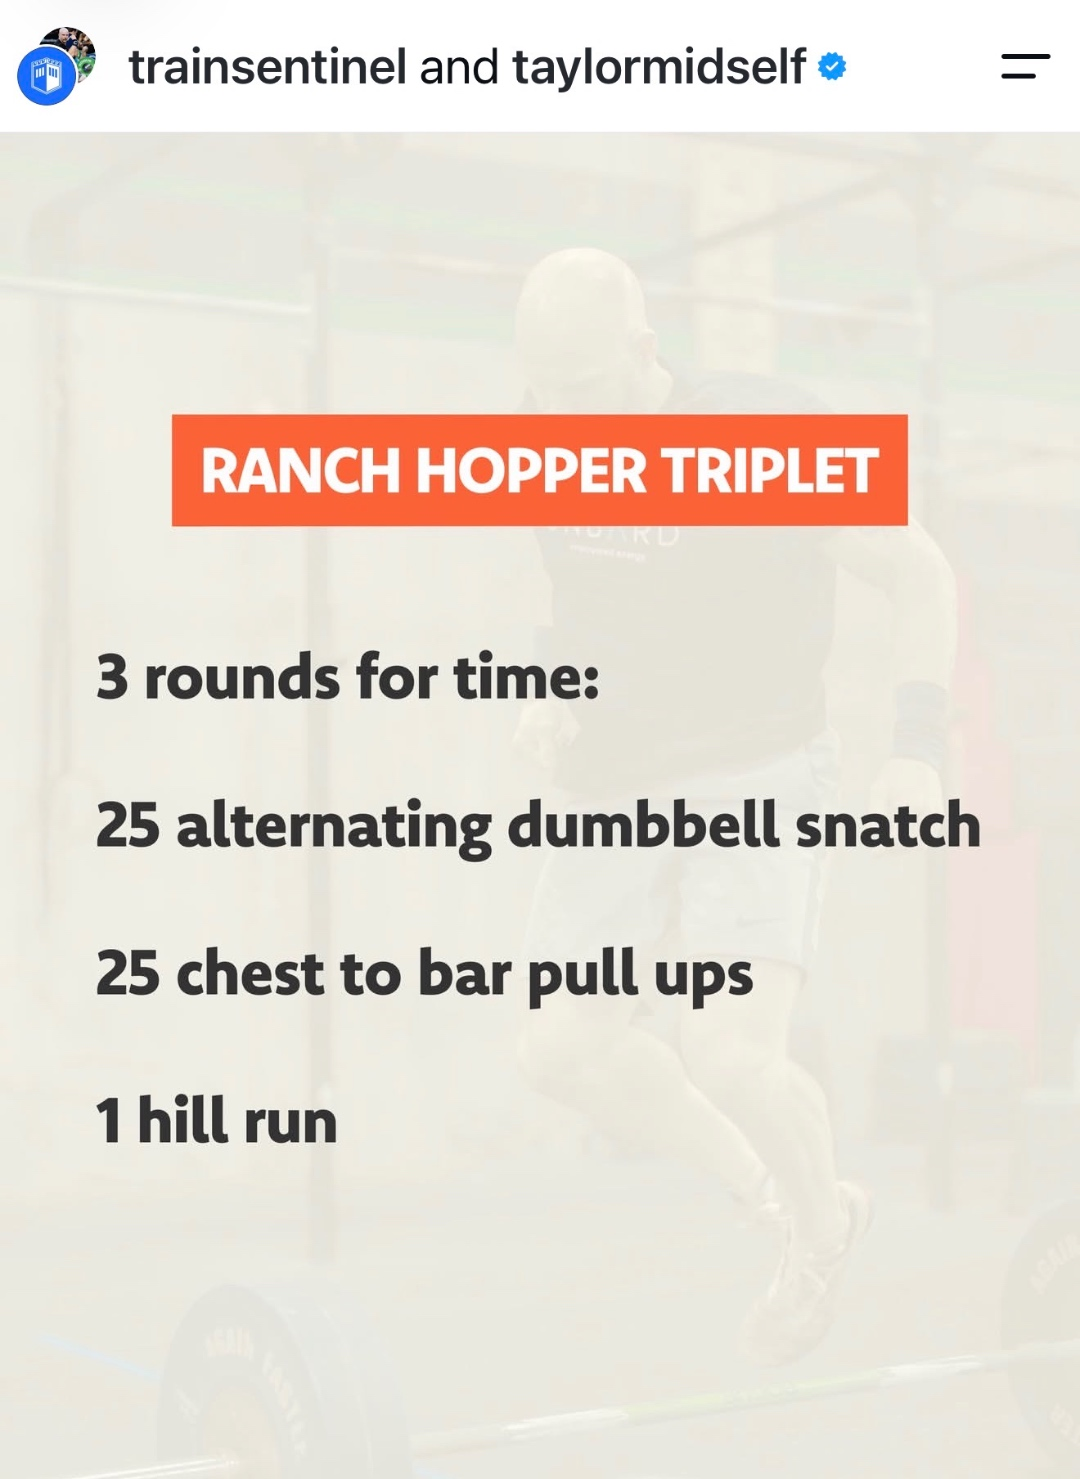
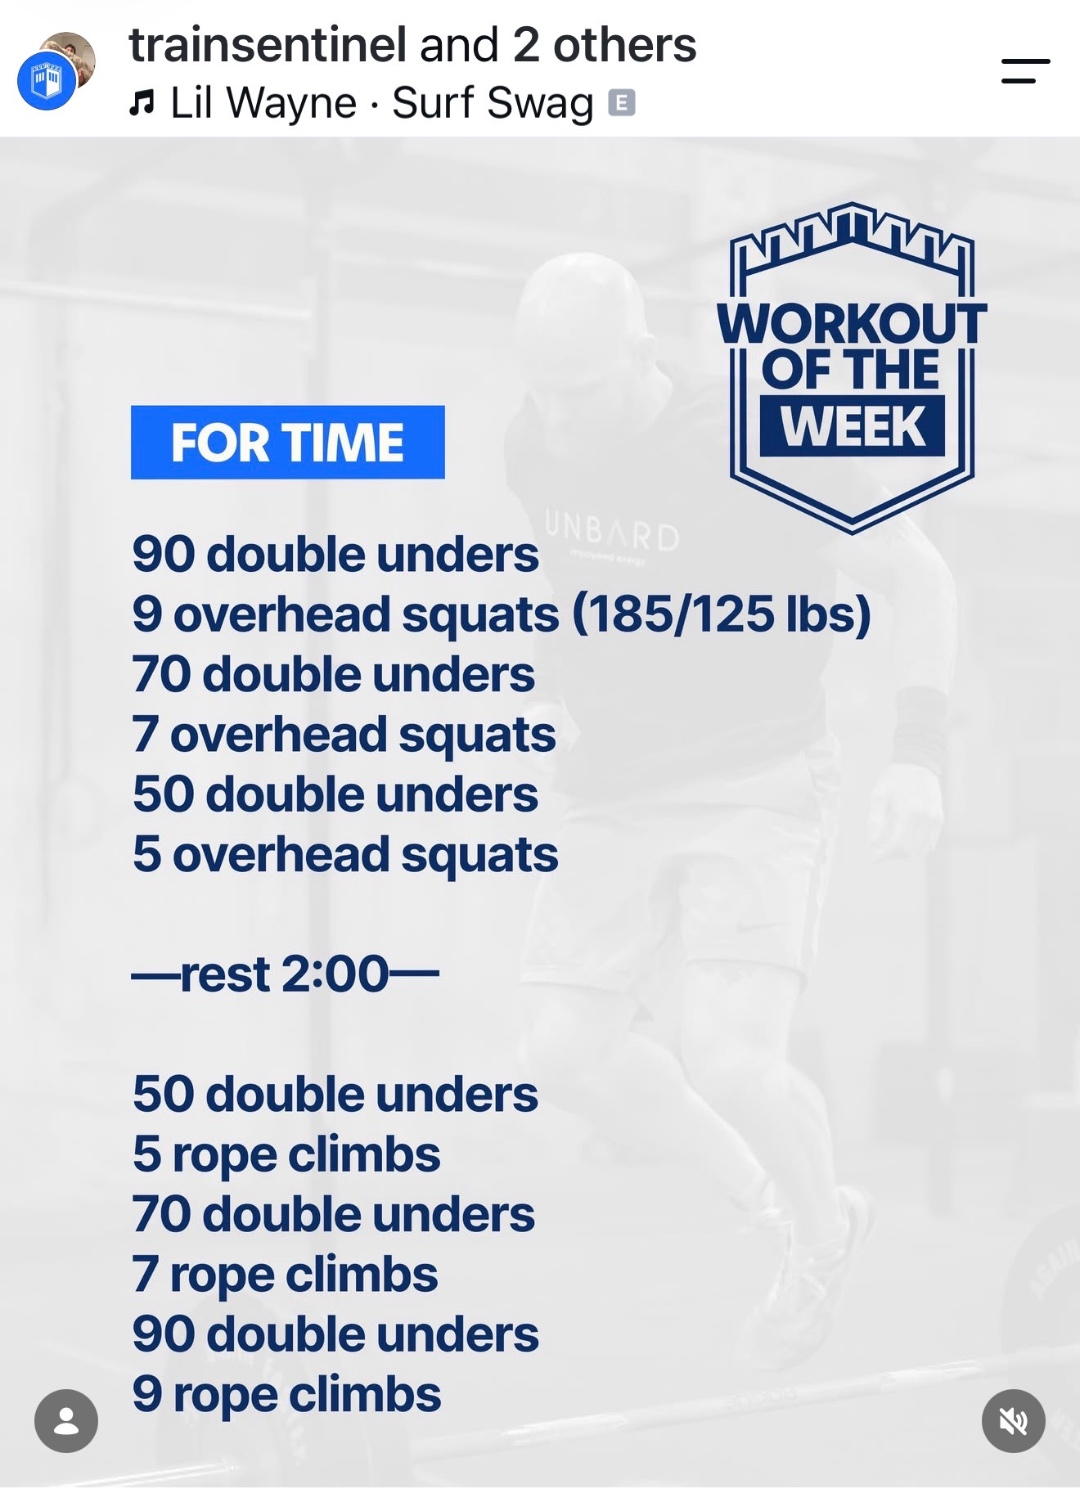
Update WOTW to Sentinel Classic Track (July 27): DU/OHS + DU/rope climbs couplets, full warm-up, cool-down, stimulus, scaling, masters

diff --git a/wotw.html b/wotw.html
@@ -73,8 +73,8 @@
       </div>
       <!-- Date label + source (admin-editable; fall back to these defaults) -->
       <div class="wotw-dateblock">
-        <span class="wotw-date" id="wotwDate">Week of July 20, 2026</span>
-        <span class="wotw-source" id="wotwSource">Sentinel Training · Ranch Hopper Triplet</span>
+        <span class="wotw-date" id="wotwDate">Week of July 27, 2026</span>
+        <span class="wotw-source" id="wotwSource">Sentinel Training Classic Track</span>
       </div>
     </div>
 
@@ -103,24 +103,23 @@
             <svg width="16" height="16" viewBox="0 0 24 24" fill="none" stroke="currentColor" stroke-width="2"><circle cx="12" cy="12" r="10"/><path d="M12 6v6l4 2"/></svg>
             Warm-up
           </h4>
-          <p class="wotw-block__text" id="wotwWarmup">General warm-up &mdash; 2 rounds at an easy pace:
-200 m jog
-10 shoulder pass-throughs with a PVC
-10 band pull-aparts
-10 scap pull-ups
-10 air squats
-5 inchworms with a push-up
+          <p class="wotw-block__text" id="wotwWarmup">2 rounds:
+1 minute of single unders
+1 minute of alternating groiners
 Then&hellip;
-Shoulder and pulling prep &mdash; 2 sets:
-5 kip swings
-5 kipping pull-ups
-3 chest-to-bar pull-ups
-10 single-arm DB deadlifts, each side (light)
-5 single-arm DB hang power snatch, each side (light)
-5 single-arm DB power snatch, each side (moderate)
+1 round of Crossover Symmetry OR 10 I-Y-T with change plates
+1 minute of kneeling hip to hamstring stretch, each side
+10 bottom squat PVC pass-throughs
 Then&hellip;
-Build to your workout weight over 2&ndash;3 sets of 3 alternating DB snatches.
-Finish with a short hill run at moderate pace to prime the legs.</p>
+2 rounds:
+5 kettlebell windmills + 5 single-arm kettlebell overhead squats, each side
+10 hanging knee raises
+Then&hellip;
+20 band RNT overhead squats
+5 strict pull-ups
+10 empty barbell overhead squats
+Then&hellip;
+Build to overhead squat weight in 5&ndash;7 minutes.</p>
         </div>
 
         <!-- ===== COOL-DOWN =====
@@ -130,14 +129,9 @@ Finish with a short hill run at moderate pace to prime the legs.</p>
             <svg width="16" height="16" viewBox="0 0 24 24" fill="none" stroke="currentColor" stroke-width="2"><path d="M3 12h4l3 8 4-16 3 8h4"/></svg>
             Cool-down
           </h4>
-          <p class="wotw-block__text" id="wotwCooldown">3&ndash;5 minute easy walk to bring heart rate down
-1 minute doorway pec stretch, each side
-1 minute lat stretch on the pull-up bar, each side
-1 minute forearm / wrist stretch, each side
-2 minute couch stretch, each side
-1 minute pigeon stretch, each side
-1 minute standing calf stretch, each side
-1 minute seated forward fold</p>
+          <p class="wotw-block__text" id="wotwCooldown">1 minute calf stretch, each side
+1 minute couch stretch, each side
+1 minute kneeling hip stretch, each side</p>
         </div>
 
         <!-- ===== SCALING NOTES =====
@@ -148,12 +142,14 @@ Finish with a short hill run at moderate pace to prime the legs.</p>
             Scaling Notes
           </h4>
           <ul class="wotw-notes__list" id="wotwNotesList">
-            <li><strong>Rx:</strong> 3 rounds for time &mdash; 25 alternating dumbbell snatches at 50 / 35 lb, 25 chest-to-bar pull-ups, 1 hill run.</li>
-            <li><strong>Intermediate:</strong> 3 rounds &mdash; 25 alternating DB snatches at 35 / 25 lb, 20 regular pull-ups, 1 hill run.</li>
-            <li><strong>Beginner:</strong> 3 rounds &mdash; 20 alternating DB snatches at 25 / 15 lb, 15 jumping pull-ups (or banded / ring rows), 1 hill run (walk or shorten as needed).</li>
-            <li><strong>Stimulus:</strong> A mixed-modal grinder. Move the DB snatches at a steady pace, break the C2B pull-ups into 3&ndash;5 quick sets, and use the hill run to control breathing before the next round. Target time is 18&ndash;25 minutes.</li>
-            <li><strong>Hill run:</strong> Use your local hill &mdash; roughly 200&ndash;400 m up-and-back at a hard but sustainable effort. Keep the distance the same each round so your score is comparable.</li>
-            <li><strong>Score:</strong> Post your total time for all 3 rounds in the comments below.</li>
+            <li><strong>Rx:</strong> For time &mdash; 90-9-70-7-50-5 (double unders / overhead squats at 185/125 lb), rest 2:00, then 50-5-70-7-90-9 (double unders / rope climbs).</li>
+            <li><strong>Stimulus:</strong> A descending couplet of double unders and heavy overhead squats, brief rest, then an ascending couplet of double unders and rope climbs. Pick an OHS load you MIGHT be able to perform unbroken &mdash; balance a weight you&rsquo;re certain you&rsquo;ll need to break with one you&rsquo;re confident in. Aim for 3+ rope climbs per minute if going as prescribed, and keep most double under sets unbroken. Target completion in 13&ndash;20 minutes.</li>
+            <li><strong>Strategy:</strong> Mostly unbroken double unders, unbroken OHS, smooth cadence on the rope climbs. On OHS, press up into the bar and keep weight in your heels. On rope climbs, be smooth and accurate with your clamps &mdash; stay under the rope between reps to avoid wasted steps. Aim for the first couplet in 4&ndash;7 minutes and the second in 6&ndash;10 minutes.</li>
+            <li><strong>Loading / Volume scaling:</strong> Overhead squats at 155/105 lb OR 50&ndash;55% of your 1RM overhead squat may be appropriate. Reduce double unders to 50-30-20 and 20-30-50 if needed. Reduce rope climbs to 2-3-5 to keep the final set under 3 minutes. To reduce overall volume, run 50-5-30-3-20-2, rest, 20-2-30-3-50-5.</li>
+            <li><strong>Equipment subs:</strong> Plate hops for double unders. Single-arm DB overhead squats at a similar difficulty in place of a barbell. Rope climbs &rarr; 10-14-18 complexes of 1 toe-to-bar + 1 kipping pull-up.</li>
+            <li><strong>Movement mods:</strong> Double unders &rarr; 60-45-30 / 30-45-60 seconds of DU attempts, single unders, plate hops, or an echo bike calorie count that allows completion in those time windows. Overhead squats &rarr; front squats (overhead limitations) or overhead alternating reverse lunges (squatting limitations). Rope climbs &rarr; half range of motion or 10-14-18 assisted rope climbs.</li>
+            <li><strong>Masters:</strong> 40&ndash;44 and 45&ndash;49 &rarr; 165/115 lb. 50&ndash;54 &rarr; 145/105 lb. 55&ndash;59 &rarr; 115/80 lb with a 12 ft rope. 60+ &rarr; 115/80 lb, 12 ft rope, reps 70-7-50-5-30-3 then 30-3-50-5-70-7.</li>
+            <li><strong>Score:</strong> Post your total time (including the 2:00 rest) in the comments below.</li>
           </ul>
         </div>
     </div>
